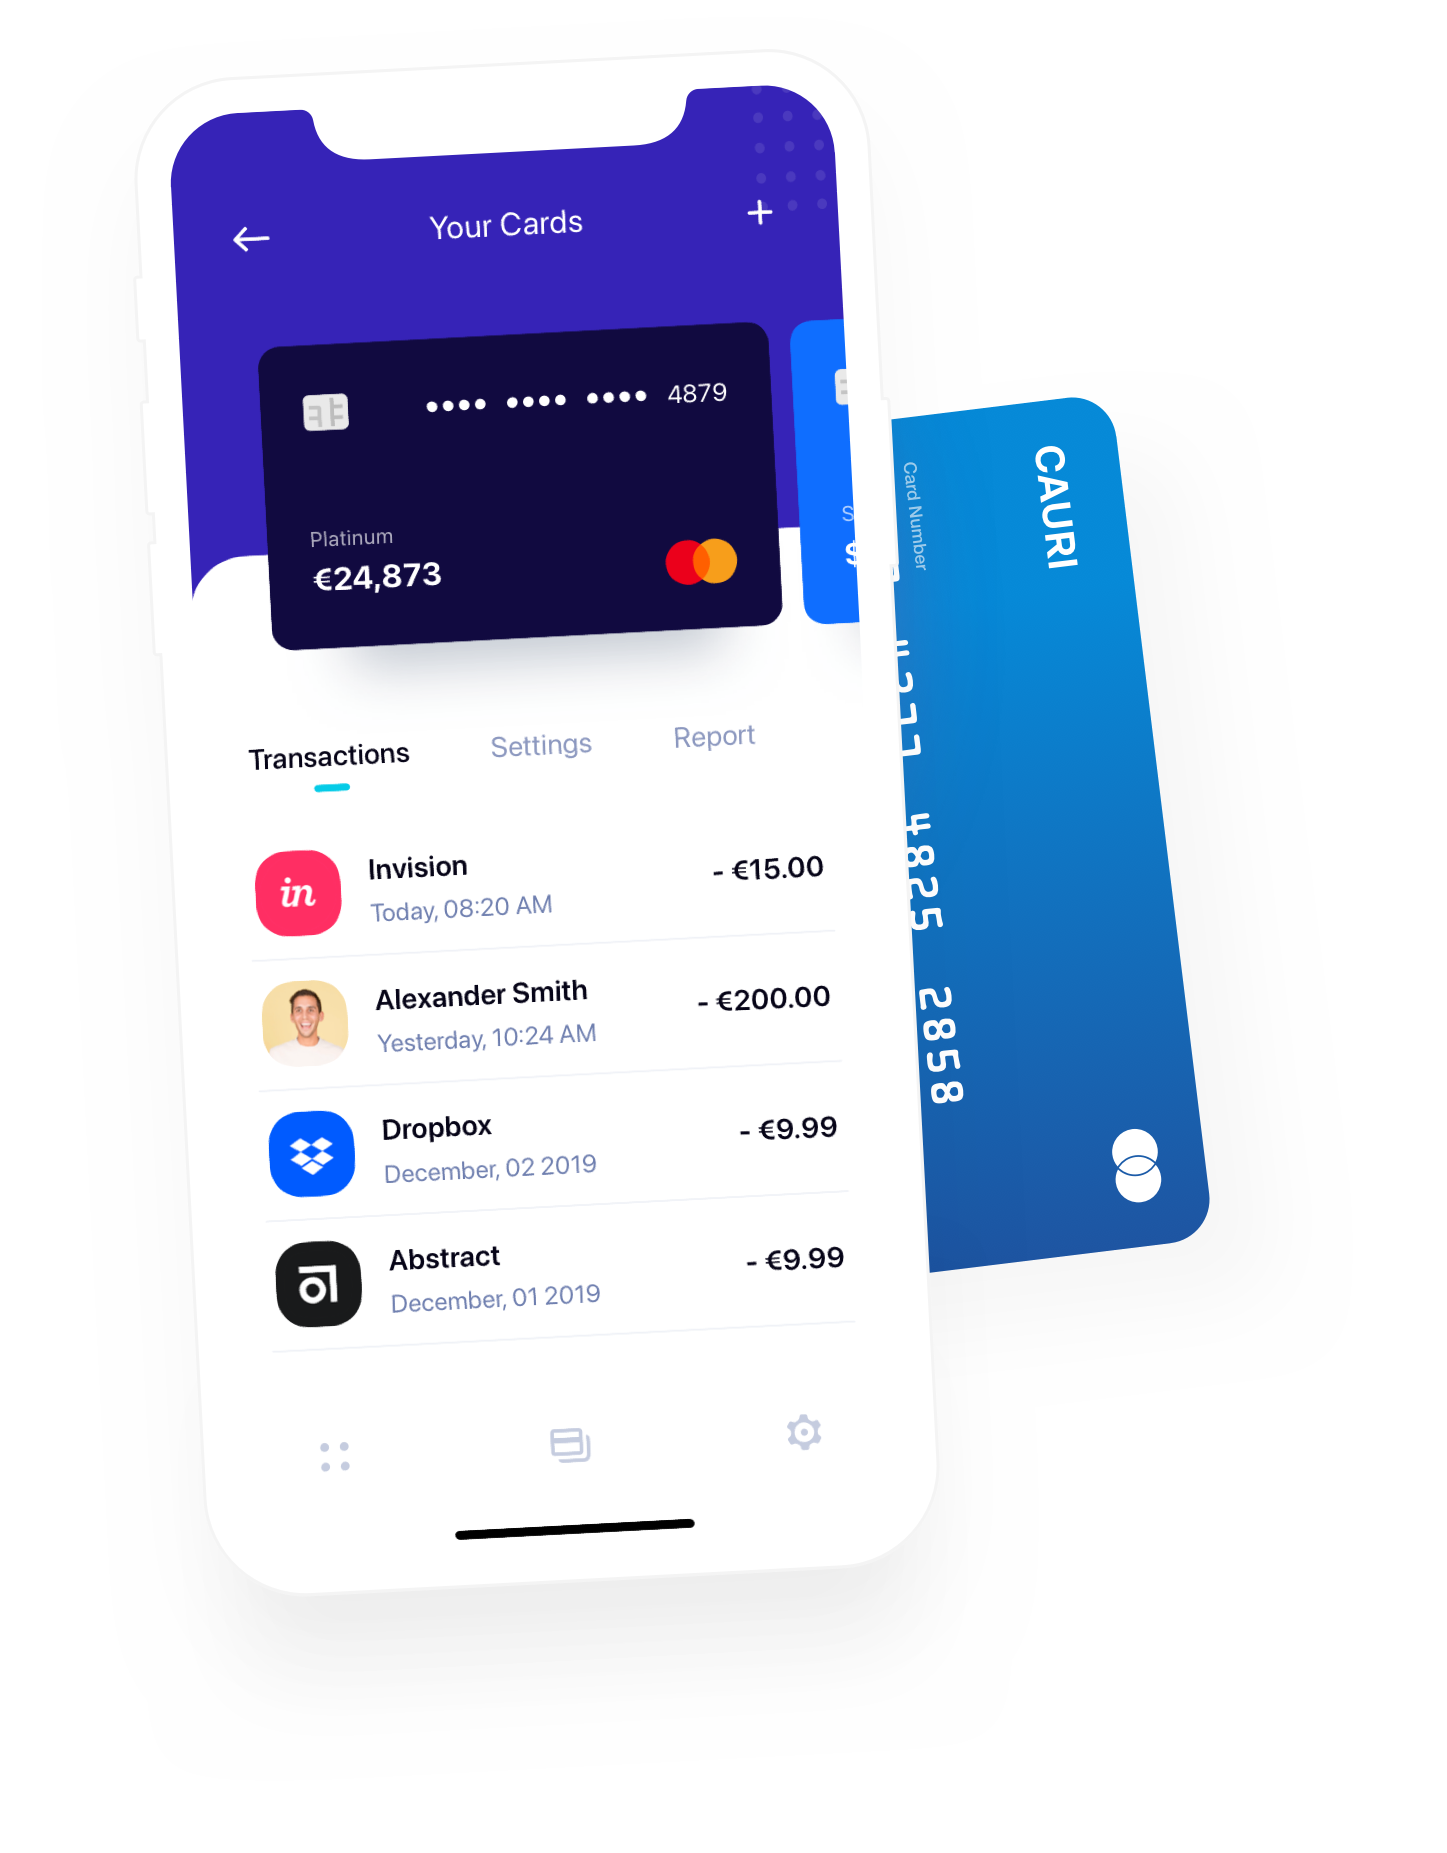
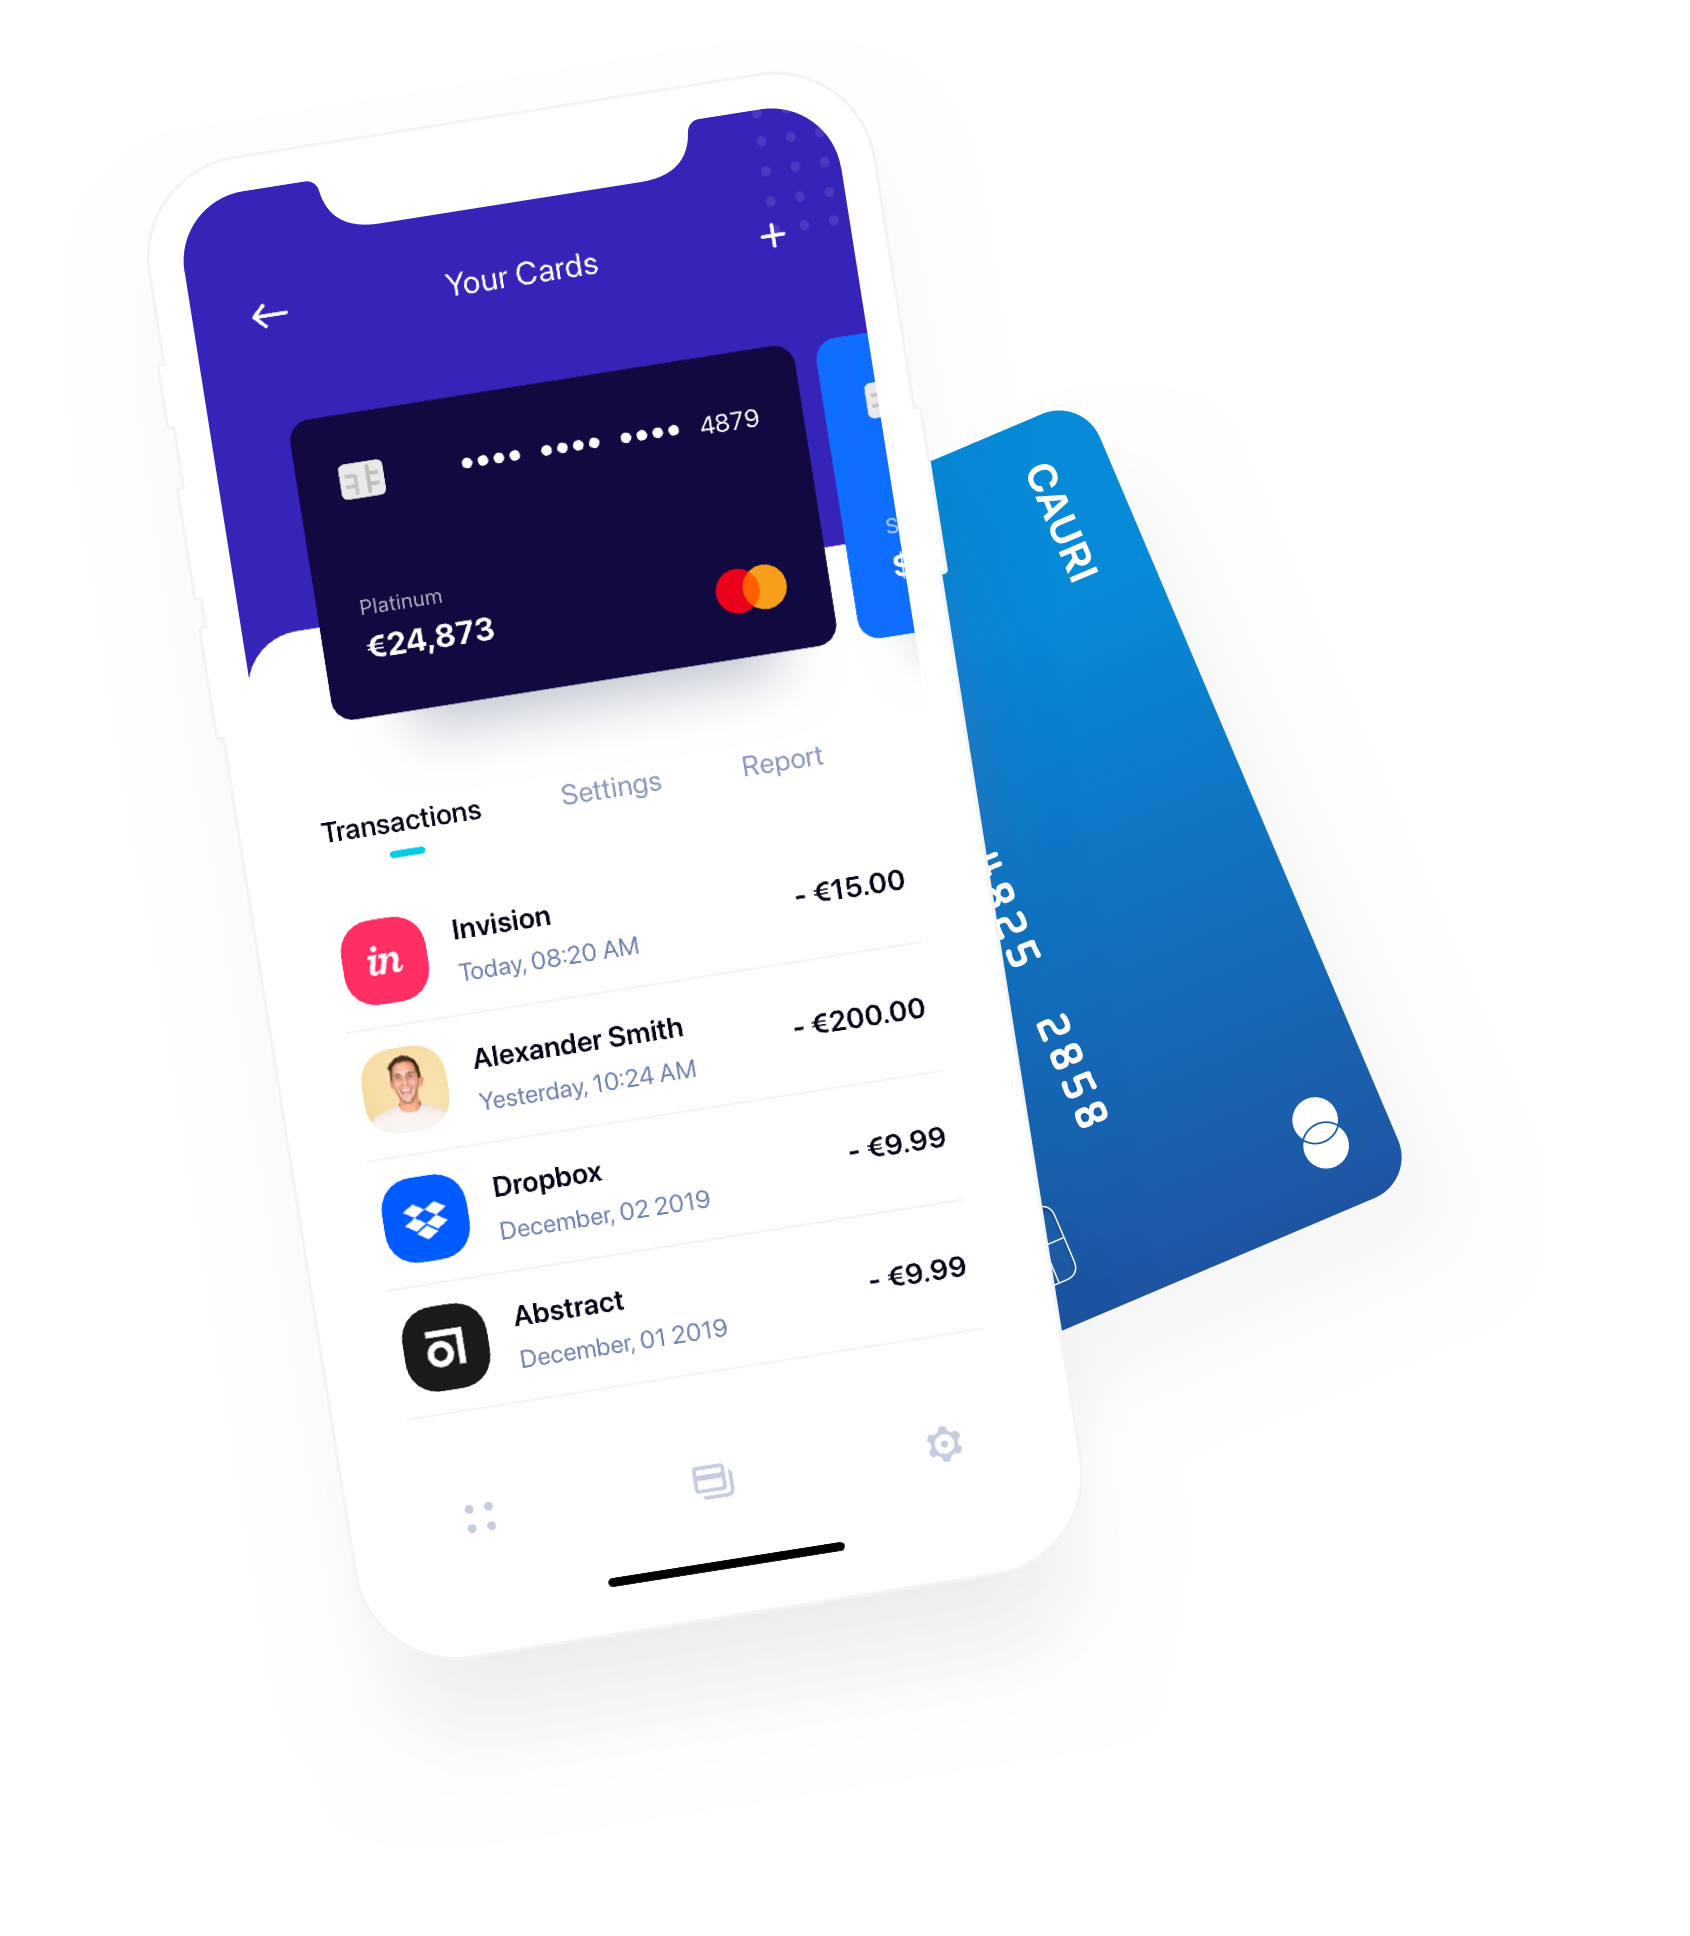
Update iphone positionning

diff --git a/css/main.css b/css/main.css
@@ -167,7 +167,7 @@ section.infos h2 {
 }
 
 section.infos p {
-  font-size: 24px;
+  font-size: 18px;
   font-weight: 300;
   margin-top: 0;
   color: #8B959E;
@@ -177,33 +177,7 @@ section.cards {
   max-width: 500px;
 }
 
-form { 
-  width: 100%;
-}
-
-form input[type="email"] {
-  height: 50px;
-  background: none;
-  border: none;
-  padding: 0 10px 0 0;
-  border-bottom: 1px solid #2A69A6;
-  color: #191C1F;
-  font-size: 24px;
-  width: calc(100% - 150px - 40px);
-  margin-right: 20px;
-  transition: all 0.4s;
-}
-
-form input[type="email"]:focus {
-  outline: none;
-  border-bottom-color: #2A69A6;
-}
-
-form input[type="email"]::placeholder {
-  color: #8B959E;
-}
-
-form button[type="submit"] {
+a button {
   height: 56px;
   background: #191C1F;
   border: none;
@@ -214,13 +188,16 @@ form button[type="submit"] {
   transition: all 0.4s;
 }
 
-form button[type="submit"]:hover {
+.mobile-only {
+  display: none;
+}
+
+a button:hover {
   background: #086AC7;
 }
 
 
 @media only screen and (max-width: 600px) {
-  /* Style adjustments for viewports that meet the condition */
   .container {
     flex-direction: column;
     text-align: center;
@@ -232,13 +209,11 @@ form button[type="submit"]:hover {
   }
 
   section.infos h2 {
-    /* font-size: 4em; */
     font-weight: 400;
     margin-top: 0;
   }
 
   section.infos p {
-    /* font-size: 1.6em; */
     font-weight: 300;
   }
 
@@ -251,20 +226,7 @@ form button[type="submit"]:hover {
   main {
     display: inherit;
   }
-
-  form input[type="email"] {
-    width: 100%;
-    margin-bottom: 20px;
-    padding-right: 0;
-  }
-
-  form button[type="submit"] {
-    width: 100%;
-  }
 }
-
-
-
 
 
 /* ==========================================================================

diff --git a/index.html b/index.html
@@ -43,9 +43,10 @@
           across <br> geographics for free. Join our
           exclusive <br> <strong>waiting list</strong>.
         </p>
+        <a href=""><button type="submit">Join the list</button></a>
         <form action="">
-          <input type="email" placeholder="Your email here">
-          <button type="submit">Join the list</button>
+          <!-- <input type="email" placeholder="Your email here"> -->
+
         </form>
       </section>
 
